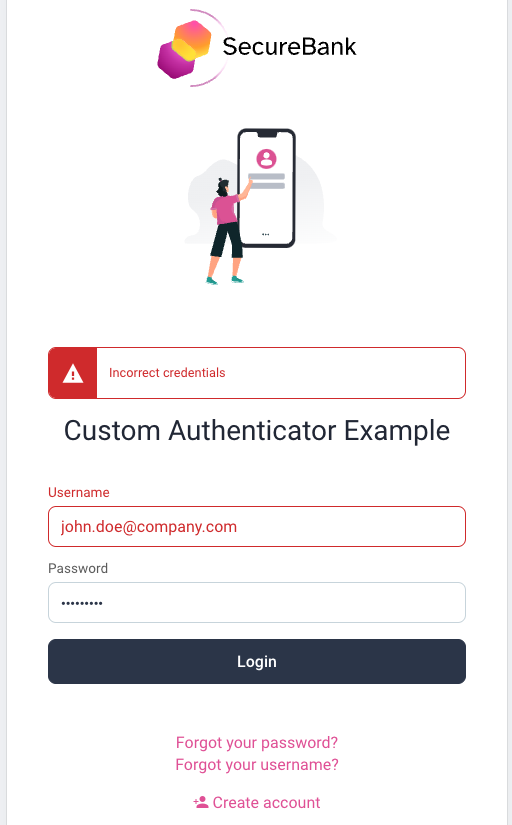
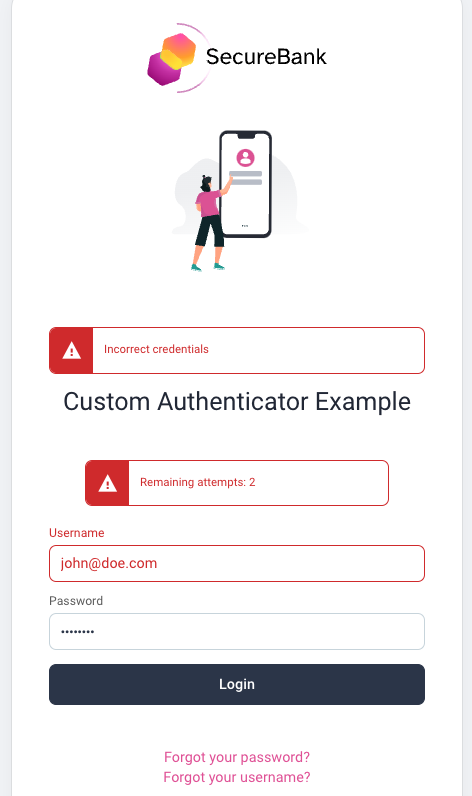
Updates

diff --git a/doc/authentication.md b/doc/authentication.md
@@ -37,7 +37,8 @@ If the password has been previously saved by the user, the browser will autofill
 
 ## Input Validation
 
-If invalid credentials are entered, the screen is not submitted and the user must correct their input:
+If invalid credentials are entered, the screen is not submitted and the user must correct their input.\
+If a credential policy is configured the error presented to users includes policy details:
 
 ![Blank Input](images/authentication/invalid-input.png)
 
